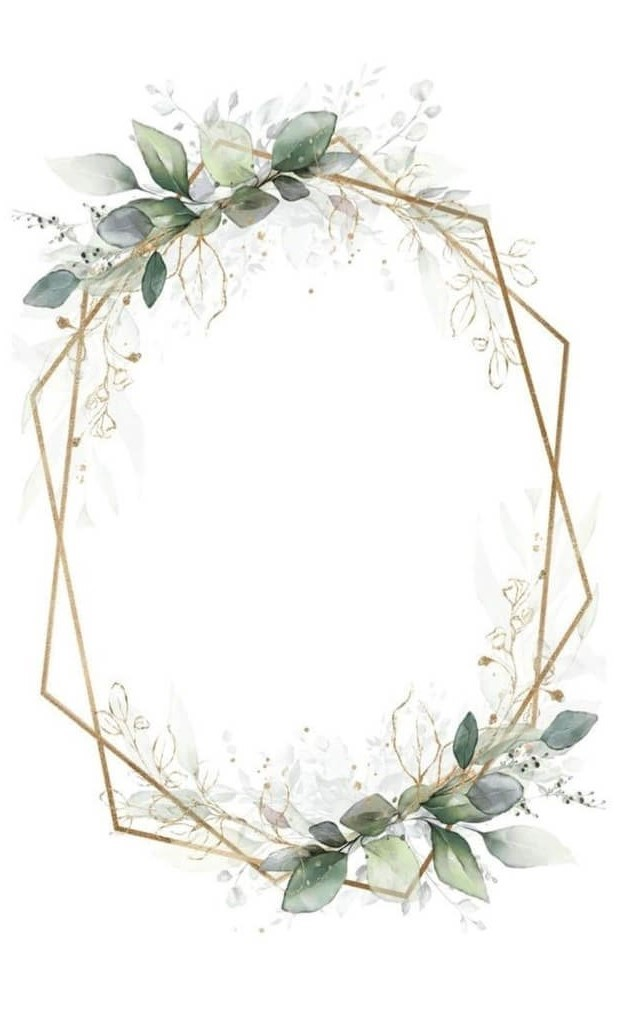
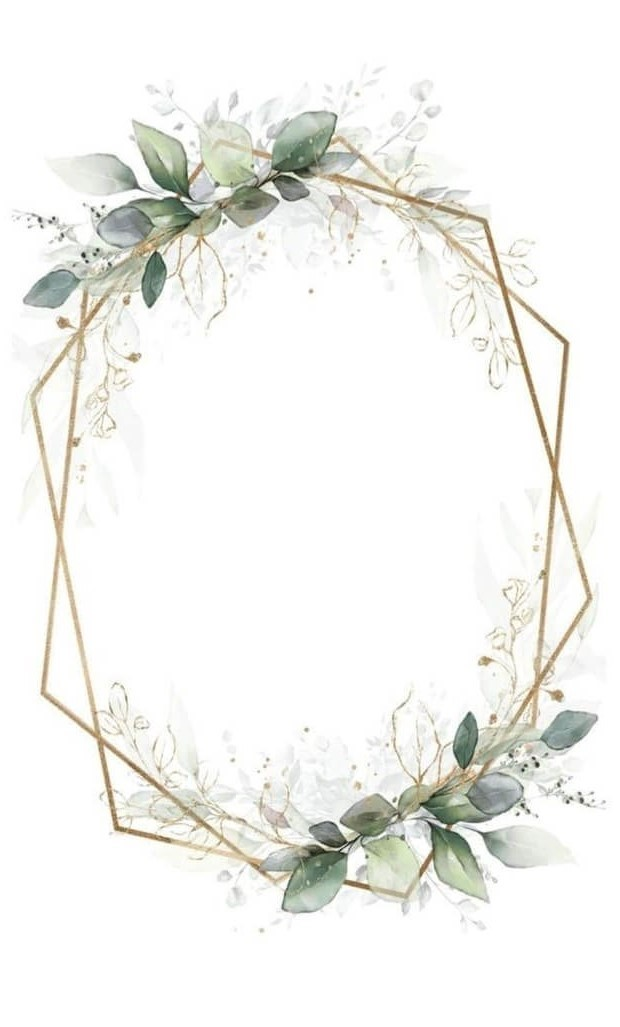
edit timing

diff --git a/index.html b/index.html
@@ -179,7 +179,7 @@
         </a>
 
         <h3>Свадебный банкет состоится</h3>
-        <p class="invite-date">8 августа 2026 в 16:30</p>
+        <p class="invite-date">8 августа 2026 в 17:00</p>
         <p class="invite-where">в малом зале ресторана "Светлый"</p>
         <p class="invite-address">
           По адресу: ул. Садовая-Черногрязская д. 8, стр. 7
@@ -268,14 +268,14 @@
             ></div>
             <div class="timeline-info">
               <span class="event"
-                ><span class="time">16:30</span>Встреча в ресторане</span
+                ><span class="time">17:00</span>Встреча в ресторане</span
               >
             </div>
           </div>
           <div class="timeline-item">
             <div class="timeline-info">
               <span class="event"
-                ><span class="time">17:00</span>Начало банкета</span
+                ><span class="time">17:30</span>Начало банкета</span
               >
             </div>
             <div
@@ -300,14 +300,14 @@
             ></div>
             <div class="timeline-info">
               <span class="event"
-                ><span class="time">21:00</span>Свадебный торт</span
+                ><span class="time">21:30</span>Свадебный торт</span
               >
             </div>
           </div>
           <div class="timeline-item">
             <div class="timeline-info">
               <span class="event"
-                ><span class="time">23:00</span>Завершение вечера</span
+                ><span class="time">23:30</span>Завершение вечера</span
               >
             </div>
             <div
